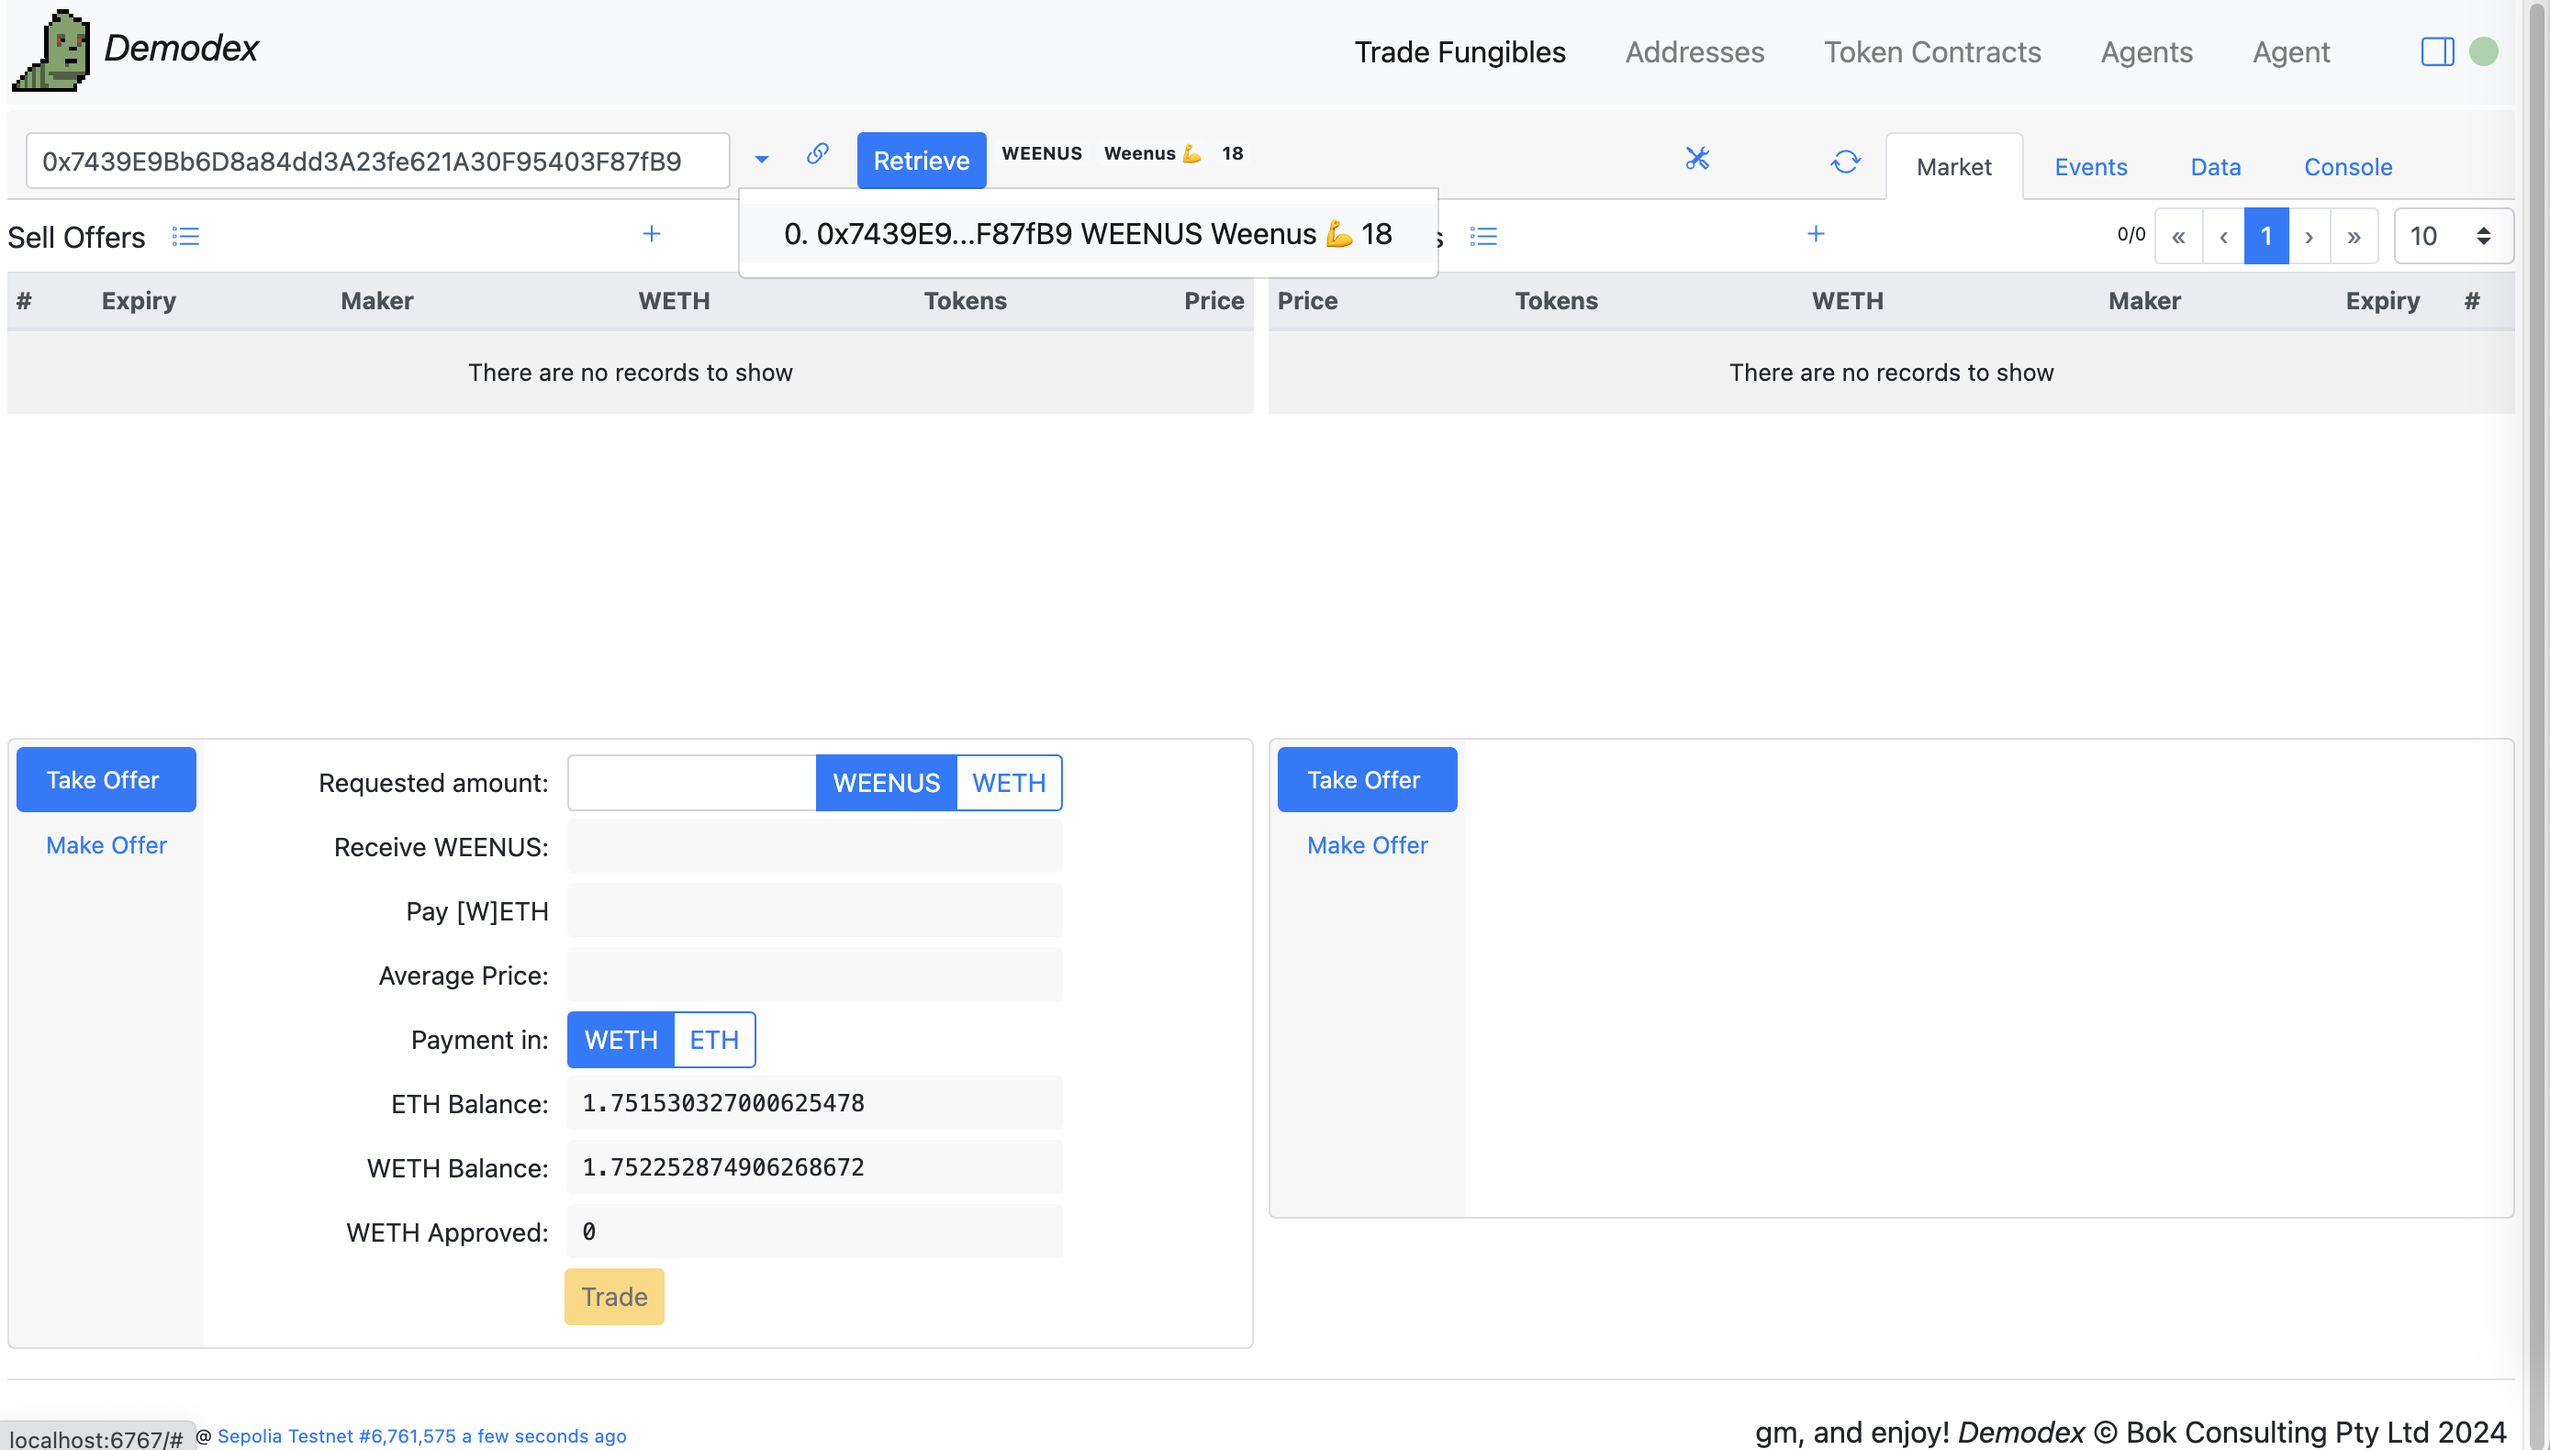
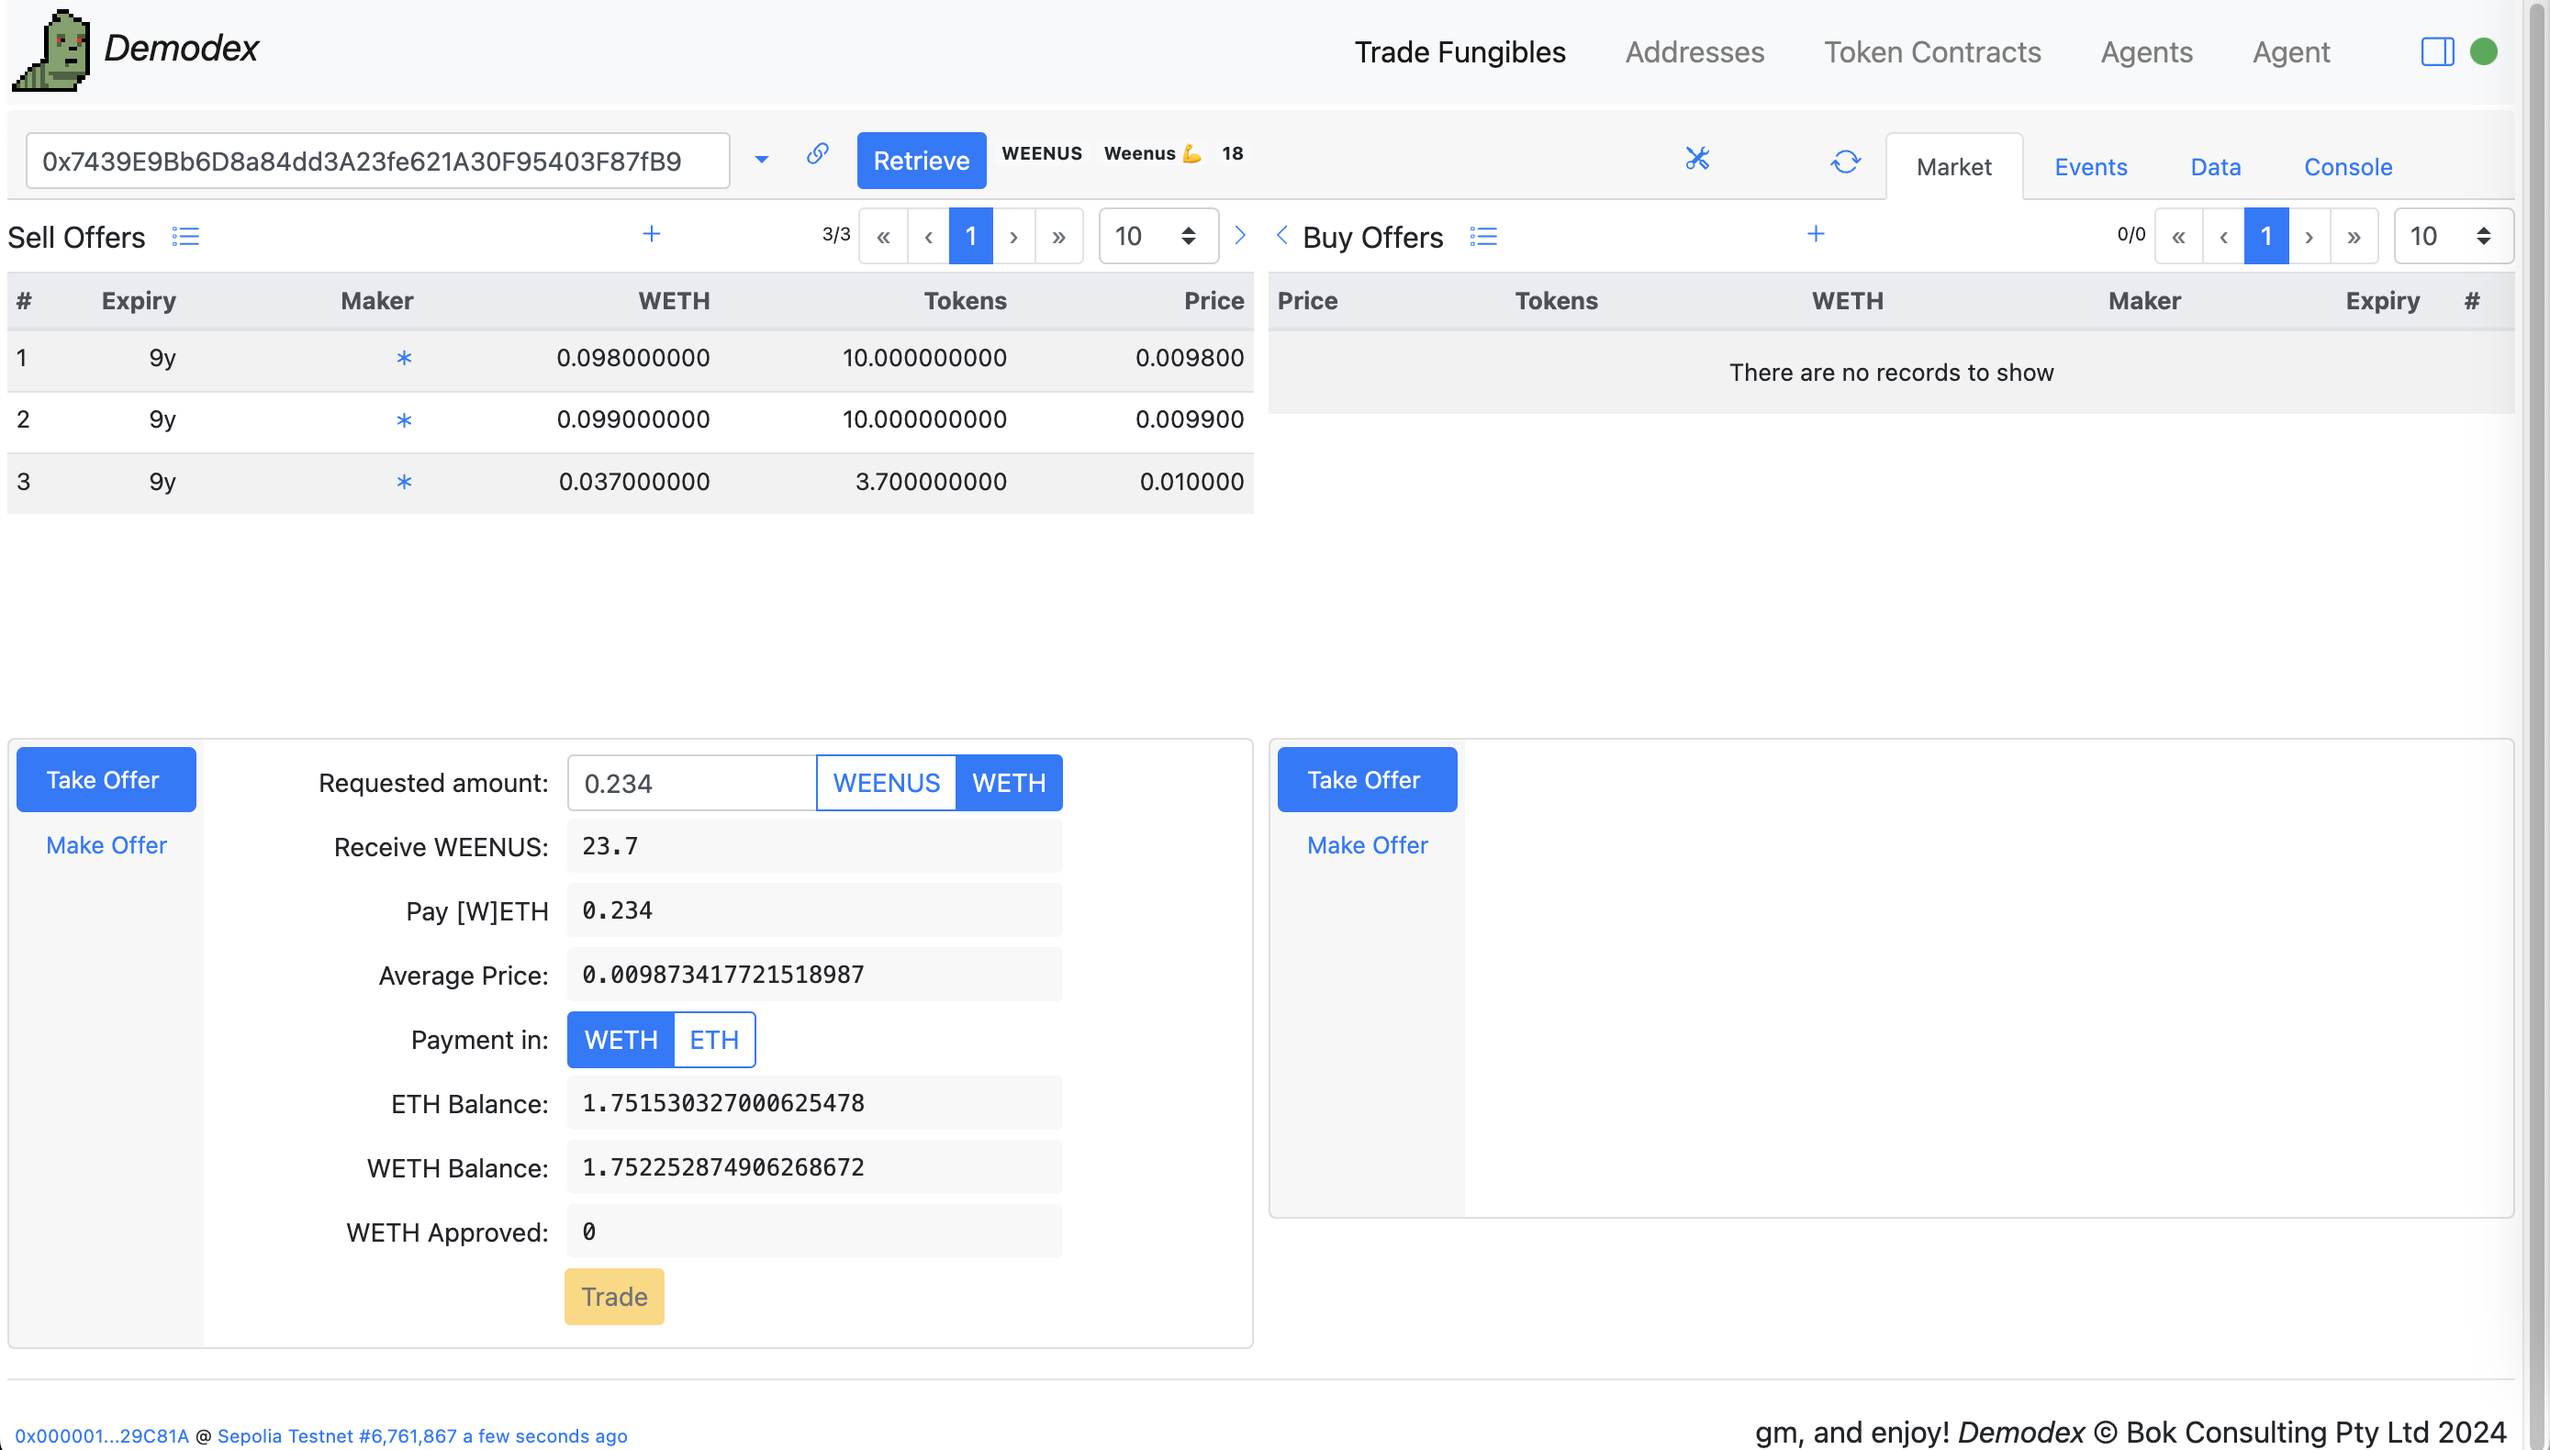
ui wip

diff --git a/docs/tradeFungibles.js b/docs/tradeFungibles.js
@@ -2068,7 +2068,7 @@ data: {{ data }}
     },
 
     newSellOffers() {
-      console.log(now() + " INFO TradeFungibles:computed.newSellOffers - this.tokenSet: " + JSON.stringify(this.tokenSet, null, 2));
+      // console.log(now() + " INFO TradeFungibles:computed.newSellOffers - this.tokenSet: " + JSON.stringify(this.tokenSet, null, 2));
       // console.log(now() + " INFO TradeFungibles:computed.newSellOffers - tokenSet.timestamp: " + this.formatTimestamp(this.tokenSet.timestamp) + ", token.symbol: " + this.tokenSet.symbol + ", token.decimals: " + this.tokenSet.decimals);
       const TENPOW18 = ethers.BigNumber.from("1000000000000000000");
 
@@ -2089,7 +2089,7 @@ data: {{ data }}
         if (e.eventType == EVENTTYPE_OFFERED && e.buySell == 1) {
           // console.log(now() + " INFO TradeFungibles:computed.newSellOffers - OFFERED e: " + JSON.stringify(e));
           if ((!mineOnly || e.maker == coinbaseIndex) && /*(includeInvalidated || d.nonce == e.nonce) &&*/ (includeExpired || (e.expiry == 0 || e.expiry >= this.tokenSet.timestamp))) {
-            console.log(now() + " INFO TradeFungibles:computed.newSellOffers - OFFERED SELL e: " + JSON.stringify(e));
+            // console.log(now() + " INFO TradeFungibles:computed.newSellOffers - OFFERED SELL e: " + JSON.stringify(e));
             if (!(e.maker in collator)) {
               collator[e.maker] = {
                 nonce: 0, // TODO
@@ -2169,7 +2169,7 @@ data: {{ data }}
         }
         return tokensA.lt(tokensB) ? 1 : -1;
       });
-      console.log(now() + " INFO TradeFungibles:computed.newSellOffers - prices: " + JSON.stringify(prices, null, 2));
+      // console.log(now() + " INFO TradeFungibles:computed.newSellOffers - prices: " + JSON.stringify(prices, null, 2));
       const tokenBalances = {};
       const tokenApprovals = {};
       for (const [maker, d1] of Object.entries(collator)) {
@@ -2181,8 +2181,8 @@ data: {{ data }}
         }
         tokenApprovals[maker][this.tokenSet.demodexIndex] = { tokens: approval, originalTokens: approval };
       }
-      console.log(now() + " INFO TradeFungibles:computed.newSellOffers - tokenBalances: " + JSON.stringify(tokenBalances, null, 2));
-      console.log(now() + " INFO TradeFungibles:computed.newSellOffers - tokenApprovals: " + JSON.stringify(tokenApprovals, null, 2));
+      // console.log(now() + " INFO TradeFungibles:computed.newSellOffers - tokenBalances: " + JSON.stringify(tokenBalances, null, 2));
+      // console.log(now() + " INFO TradeFungibles:computed.newSellOffers - tokenApprovals: " + JSON.stringify(tokenApprovals, null, 2));
 
       const records = [];
       const trades = [];
@@ -2192,46 +2192,47 @@ data: {{ data }}
       let filledWeth = null;
       let filledAveragePrice = null;
       for (const [i, price] of prices.entries()) {
-        // const ignoreApproval = price.owner == coinbaseIndex && ignoreMyApprovals;
-        // const tokenBalance = ethers.BigNumber.from(tokenBalances[price.owner] && tokenBalances[price.owner].tokens || 0);
-        // const tokenApproval = ethers.BigNumber.from(!price.simulated && tokenApprovals[price.owner] && tokenApprovals[price.owner][price.tokenAgent] && tokenApprovals[price.owner][price.tokenAgent].tokens || 0);
-        // let tokens = ethers.BigNumber.from(price.tokens);
-        // let wethAmount = null;
-        // if (price.valid) {
-        //   if (tokens.gt(tokenBalance)) {
-        //     tokens = tokenBalance;
-        //   }
-        //   if (!ignoreApproval && !simulate && tokens.gt(tokenApproval)) {
-        //     tokens = tokenApproval;
-        //   }
-        //   if (maxTokens != null) {
-        //     if (tokens.gt(maxTokens)) {
-        //       tokens = maxTokens;
-        //     }
-        //     maxTokens = maxTokens.sub(tokens);
-        //   }
-        //   if (maxWeth != null) {
-        //     wethAmount = tokens.mul(ethers.BigNumber.from(price.price)).div(TENPOW18);
-        //     // maxTokensFromWeth = maxWeth * 10**18 / e.price
-        //     const maxTokensFromWeth = maxWeth.mul(TENPOW18).div(price.price);
-        //     if (tokens.gt(maxTokensFromWeth)) {
-        //       wethAmount = maxWeth;
-        //       tokens = maxTokensFromWeth;
-        //     }
-        //     maxWeth = maxWeth.sub(wethAmount);
-        //   }
-        //   if (tokens.gt(0)) {
-        //     wethAmount = tokens.mul(ethers.BigNumber.from(price.price)).div(TENPOW18);
-        //     totalTokens = ethers.BigNumber.from(totalTokens).add(tokens);
-        //     totalWeth = ethers.BigNumber.from(totalWeth).add(wethAmount);
-        //     tokenBalances[price.owner].tokens = ethers.BigNumber.from(tokenBalances[price.owner].tokens).sub(tokens).toString();
-        //     if (!ignoreApproval && !price.simulated && tokenApprovals[price.owner] && tokenApprovals[price.owner][price.tokenAgent]) {
-        //       tokenApprovals[price.owner][price.tokenAgent].tokens = ethers.BigNumber.from(tokenApprovals[price.owner][price.tokenAgent].tokens).sub(tokens).toString();
-        //     }
-        //     trades.push({ index: price.offerIndex, price: price.price, execution: 1, tokenIds: [], tokenss: [tokens.toString()] });
-        //   }
-        // }
-        // records.push({ ...price, originalTokens: price.tokens, tokens: tokens.toString(), totalTokens: totalTokens.toString(), wethAmount: wethAmount != null && wethAmount.toString() || null, totalWeth: totalWeth.toString() });
+        const ignoreApproval = price.maker == coinbaseIndex && ignoreMyApprovals;
+        const tokenBalance = ethers.BigNumber.from(tokenBalances[price.maker] && tokenBalances[price.maker].tokens || 0);
+        const tokenApproval = ethers.BigNumber.from(!price.simulated && tokenApprovals[price.maker] && tokenApprovals[price.maker][this.tokenSet.demodexIndex] && tokenApprovals[price.maker][this.tokenSet.demodexIndex].tokens || 0);
+        // console.log(i + " " + ignoreApproval + " " + ethers.utils.formatEther(tokenBalance) + " " + ethers.utils.formatEther(tokenApproval) + " " + JSON.stringify(price));
+        let tokens = ethers.BigNumber.from(price.tokens);
+        let wethAmount = null;
+        if (price.valid) {
+          if (tokens.gt(tokenBalance)) {
+            tokens = tokenBalance;
+          }
+          if (!ignoreApproval && !simulate && tokens.gt(tokenApproval)) {
+            tokens = tokenApproval;
+          }
+          if (maxTokens != null) {
+            if (tokens.gt(maxTokens)) {
+              tokens = maxTokens;
+            }
+            maxTokens = maxTokens.sub(tokens);
+          }
+          if (maxWeth != null) {
+            wethAmount = tokens.mul(ethers.BigNumber.from(price.price)).div(TENPOW18);
+            // maxTokensFromWeth = maxWeth * 10**18 / e.price
+            const maxTokensFromWeth = maxWeth.mul(TENPOW18).div(price.price);
+            if (tokens.gt(maxTokensFromWeth)) {
+              wethAmount = maxWeth;
+              tokens = maxTokensFromWeth;
+            }
+            maxWeth = maxWeth.sub(wethAmount);
+          }
+          if (tokens.gt(0)) {
+            wethAmount = tokens.mul(ethers.BigNumber.from(price.price)).div(TENPOW18);
+            totalTokens = ethers.BigNumber.from(totalTokens).add(tokens);
+            totalWeth = ethers.BigNumber.from(totalWeth).add(wethAmount);
+            tokenBalances[price.maker].tokens = ethers.BigNumber.from(tokenBalances[price.maker].tokens).sub(tokens).toString();
+            if (!ignoreApproval && !price.simulated && tokenApprovals[price.maker] && tokenApprovals[price.maker][price.tokenAgent]) {
+              tokenApprovals[price.maker][price.tokenAgent].tokens = ethers.BigNumber.from(tokenApprovals[price.maker][price.tokenAgent].tokens).sub(tokens).toString();
+            }
+            trades.push({ index: price.offerIndex, price: price.price, execution: 1, tokenIds: [], tokenss: [tokens.toString()] });
+          }
+        }
+        records.push({ ...price, originalTokens: price.tokens, tokens: tokens.toString(), totalTokens: totalTokens.toString(), wethAmount: wethAmount != null && wethAmount.toString() || null, totalWeth: totalWeth.toString() });
       }
       if (maxTokens != null || maxWeth != null) {
         filledTokens = totalTokens;
